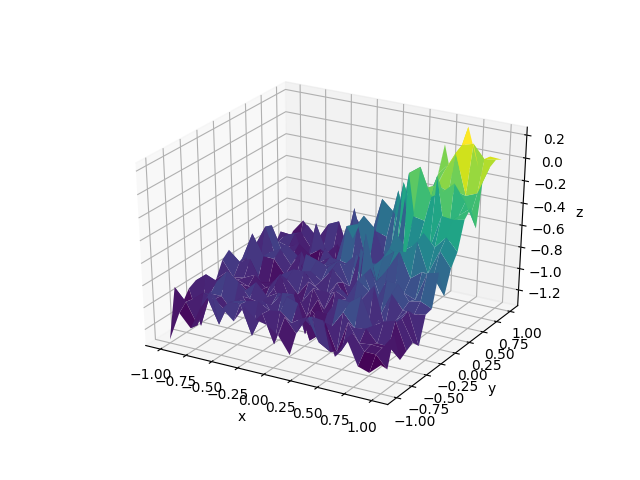
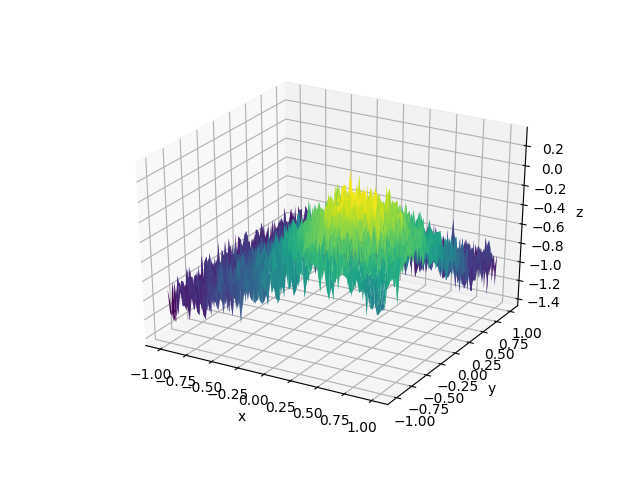
added trained layer

Changed region(s): [[0.2188, 0.1875, 0.9062, 0.7812]]

diff --git a/DogCatTrain/DistributionKReluGradientMuRandom/source/visualize_model.py b/DogCatTrain/DistributionKReluGradientMuRandom/source/visualize_model.py
@@ -4,34 +4,34 @@ from network import DistributionConvolutionModelKReluGradientMuRandom
 import matplotlib.pyplot as plt
 
 model = DistributionConvolutionModelKReluGradientMuRandom(image_size=(100, 100))
-# model.load_state_dict(torch.load("../model/model_final.pth")["model_state_dict"])
+model.load_state_dict(torch.load("../model/model_final.pth")["model_state_dict"])
 
-layers = [
-  [model.conv1_1, model.conv1_2],
-  [model.conv2_1, model.conv2_2],
-  [model.conv3_1, model.conv3_2]
-]
-shapes = [[4, 8], [8, 8], [8, 16]]
+# layers = [
+#   [model.conv1_1, model.conv1_2],
+#   [model.conv2_1, model.conv2_2],
+#   [model.conv3_1, model.conv3_2]
+# ]
+# shapes = [[4, 8], [8, 8], [8, 16]]
 
-for i, layer in enumerate(layers):
-  for j, conv in enumerate(layer):
-    print("conv{}_{}.png".format(i + 1, j + 1))
-    distributions = conv.distribution.detach().numpy()
-    print(distributions.shape)
+# for i, layer in enumerate(layers):
+#   for j, conv in enumerate(layer):
+#     print("conv{}_{}.png".format(i + 1, j + 1))
+#     distributions = conv.distribution.detach().numpy()
+#     print(distributions.shape)
 
-    figure, graphs = plt.subplots(*shapes[i])
-    print(distributions.shape)
-    print(graphs.shape)
-    print(shapes[i][0] * shapes[i][1])
+#     figure, graphs = plt.subplots(*shapes[i])
+#     print(distributions.shape)
+#     print(graphs.shape)
+#     print(shapes[i][0] * shapes[i][1])
 
-    for graph, distribution in zip(graphs.reshape(shapes[i][0] * shapes[i][1]), distributions):
-      graph.matshow(distribution)
-      graph.set_xticklabels([])
-      graph.set_yticklabels([])
-      graph.axis("off")
+#     for graph, distribution in zip(graphs.reshape(shapes[i][0] * shapes[i][1]), distributions):
+#       graph.matshow(distribution)
+#       graph.set_xticklabels([])
+#       graph.set_yticklabels([])
+#       graph.axis("off")
 
-    plt.subplots_adjust(wspace=0, hspace=0)
-    figure.savefig("../image/distribution_conv{}_{}.png".format(i + 1, j + 1))
+#     plt.subplots_adjust(wspace=0, hspace=0)
+#     figure.savefig("../image/distribution_conv{}_{}.png".format(i + 1, j + 1))
 
-# plot_distribution(distributions[0], name="distribution_trained.png")
-# plot_distribution_2d(distributions[0], name="distribution_trained_2d.png")
+plot_distribution(model.conv1_1.distribution.detach().numpy()[4], name="distribution_trained_4.png")
+# plot_distribution_2d(model.conv1_1.distribution.detach().numpy()[1], name="distribution_trained_2d.png")
